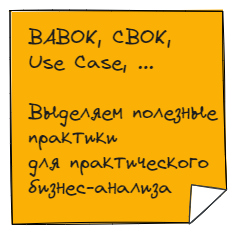
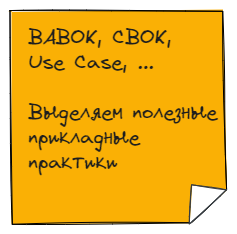
Quartz sync: Mar 15, 2025, 10:38 AM

Changed region(s): [[0.1181, 0.5385, 0.8861, 0.8675]]

diff --git a/content/Теория/Бизнес-ценность продукта (решения).md b/content/Теория/Бизнес-ценность продукта (решения).md
@@ -1,0 +1,42 @@
+---
+title: 
+description: 
+permalink: 
+tags: 
+draft: false
+date:
+---
+Достаточно часто аналитику или владельцу продукта приходится защищать перед клиентом бизнес-ценность предлагаемого решения или продукта. Сформулировать и описать ценность в понятной форме поможет следующий план.
+
+1. **Определите, на какие процессы компании клиента влияет предлагаемое решение / продукт**. Для выявления процессов может помочь [[Модель цепочки создания ценности Портера]]. Пусть, например, предлагаемое решение влияет на процессы "Маркетинг и продажи" (основной процесс) и "Планирование и анализ продаж" (вспомогательный процесс)
+
+2. **Зафиксируйте границы возможностей предлагаемого решения**. В качестве исходной информации понадобятся бизнес-потребности сформулированные клиентом, например:
+	- увеличение объема продаж
+	- работа с клиентской базой
+	- отчетность и аналитика
+	- автоматизация документооборота
+	Очевидно, что предлагаемое решение не может удовлетворить последнюю потребность бизнеса, потому как не влияет на процесс документооборота, исключаем ее из дальнейшего рассмотрения,
+	
+3. **Сформулируйте и опишите за счет каких действий предлагаемое решение / продукт добавят ценности для бизнеса компании**. Для нашего примера это может выглядеть так:
+		- *увеличение объема продаж*:
+			- сокращение сроков заключения сделки
+			- увеличение конверсии продаж
+			- увеличение средней суммы сделки
+		- *работа с клиентской базой*:
+			- увеличение повторных продаж
+			- внедрение программы лояльности клиентов
+			- организация рекламных рассылок
+		- *отчетность и аналитика*:
+			- автоматизация оперативной и аналитической отчетности по продажам
+	В качестве ориентира, ценность для бизнеса могут представлять такие действия как:
+	- повышенная производительность;
+	- снижение себестоимости;
+	- ускорение бизнес-процессов;
+	- автоматизация задач, ранее выполнявшихся вручную;
+	- возможность выполнять совершенно новые задачи;
+	- соответствие соответствующим стандартам и правилам;
+	- лучшая, по сравнению с текущими продуктами, легкость и простота использования;
+
+4. **Опишите факторы роста ценности для каждого действия, на которые влияет предлагаемое решение**. Факторы роста ценности должны быть понятны бизнесу - их можно измерить количественно, как например для сокращения сроков заключения сделки или наглядно продемонстрировать, как например для автоматизации рекламной рассылки. Удобным инструментом для описания факторов роста ценности является дерево факторов роста ценности. В нашем примере оно будет выглядеть так
+
+ ![[факторы роста ценности.drawio.svg]]

diff --git a/content/cards/Модель цепочки создания ценности Портера.md b/content/cards/Модель цепочки создания ценности Портера.md
@@ -1,7 +1,13 @@
 ---
+title: 
+description: 
+permalink: 
 tags: 
-links: "[[CBOK]]"
+draft: false
+date:
 ---
+
+Основу модели составляют следующие тезисы:
 - Компания производит товар или услугу. 
 - Целью деятельности компании является получение прибыли от реализации товара / услуги. 
 - Ценностью считается действие, увеличивающее прибыль компании.
@@ -19,4 +25,3 @@ links: "[[CBOK]]"
 		- Технологическое развитие. Оборудование, техника, программное обеспечение, процедуры и технические знания, используемые для преобразования входов в выходы.
 		- Инфраструктура. Обслуживает потребности организации и связывает ее части воедино. Состоит из таких подразделений или функций, как бухгалтерия, юристы, финансы, планирование, связи с общественностью, связи с государственными органами, контроль качества и дирекция.
 	
-Ценность характеризуется атрибутами (см. [[Атрибуты ценности]])

diff --git a/content/Теория/Home.md b/content/Теория/Home.md
@@ -1,0 +1,19 @@
+---
+title: Содержание раздела
+description: 
+permalink: 
+tags: 
+draft: false
+date:
+---
+
+**BABOK** (Business Analysis Body of Knowledge) - Свод знаний по бизнес-анализу.
+Это документ, разработанный IIBA (Международный институт бизнес-анализа). На основании Свода разработано **BABOK Guide** - руководства к Своду знаний по бизнес-анализу.  Скачать 3-ю версию Руководства можно здесь.
+Руководство BABOK содержит описании
+
+**CBOK**
+
+**USE CASE**
+
+[[Бизнес-ценность продукта (решения)]]
+

diff --git a/content/cards/BACCM.md b/content/cards/BACCM.md
@@ -1,6 +1,13 @@
-[[BABOK]]
+---
+title: 
+description: 
+permalink: 
+tags: 
+draft: false
+date:
+---
 
-BACCM - Модель базовых понятий бизнес-анализа.
+**BACCM - Модель базовых понятий бизнес-анализа.**
 Модель состоит из шести терминов, которые имеют общее значение для всех бизнес-аналитиков, что помогает им использовать единую терминологию при обсуждении бизнес-анализа и того, что с ним связано.
 
 Шесть базовых понятий BACCM: 

diff --git a/content/cards/BABOK.md b/content/cards/BABOK.md
@@ -1,4 +1,3 @@
 **BABOK** (Business Analysis Body of Knowledge) - Свод знаний по бизнес-анализу.
 Это документ, разработанный IIBA (Международный институт бизнес-анализа). На основании Свода разработано **BABOK Guide** - руководства к Своду знаний по бизнес-анализу.  Скачать 3-ю версию Руководства можно здесь.
-
 Руководство BABOK содержит описание общепринятых практик в области бизнес-анализа.

diff --git a/content/Битрикс24/Составляем дерево факторов роста ценности.md b/content/Битрикс24/Составляем дерево факторов роста ценности.md
@@ -12,6 +12,7 @@ date:
 | --------------- | -------------------------------------------------- |
 | Предыдущий шаг: | [[Пишем верхнеуровневую пользовательскую историю]] |
 | Артефакт:       | дерево факторов роста ценности проекта             |
+|                 |                                                    |
 
 # Теория
 
